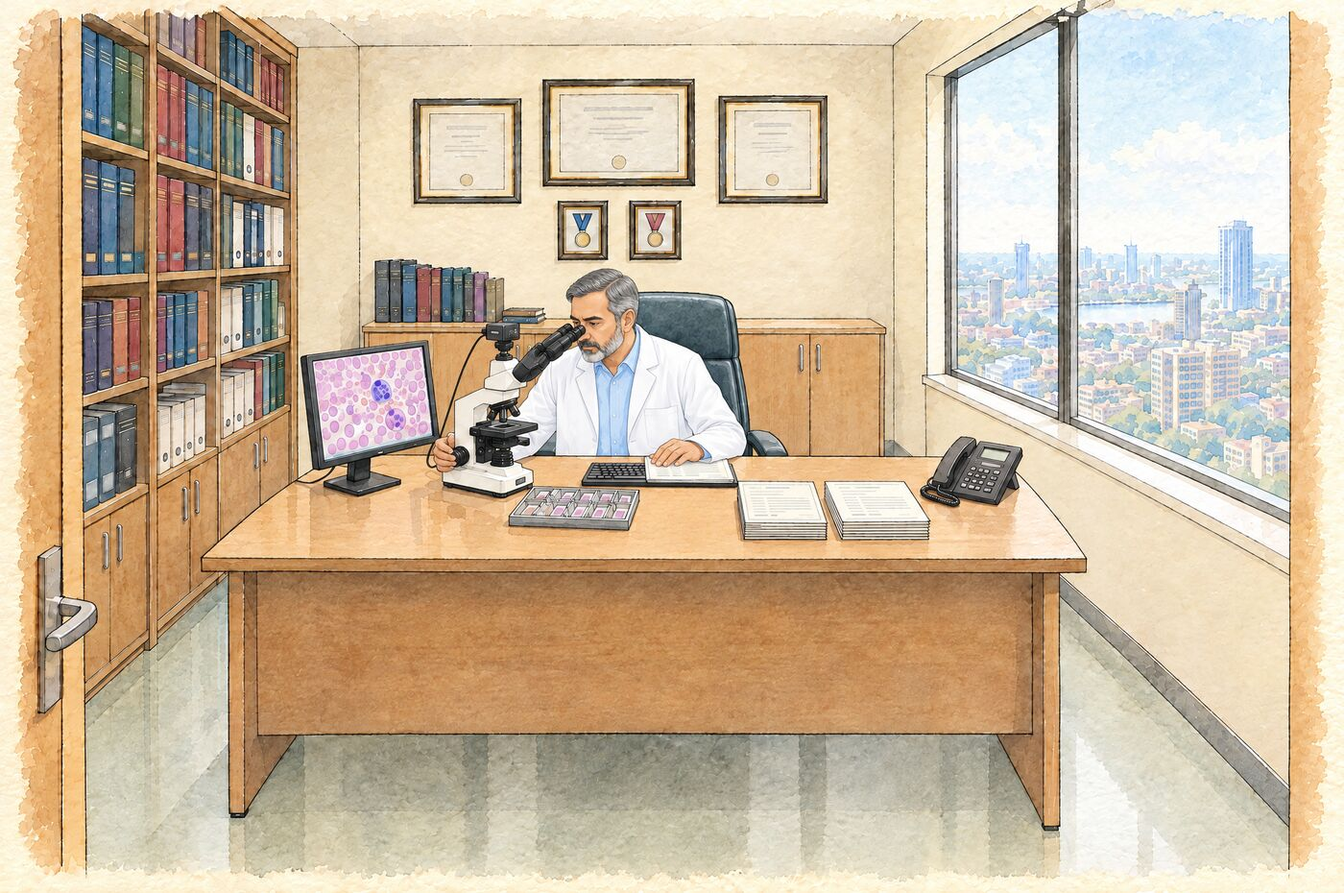
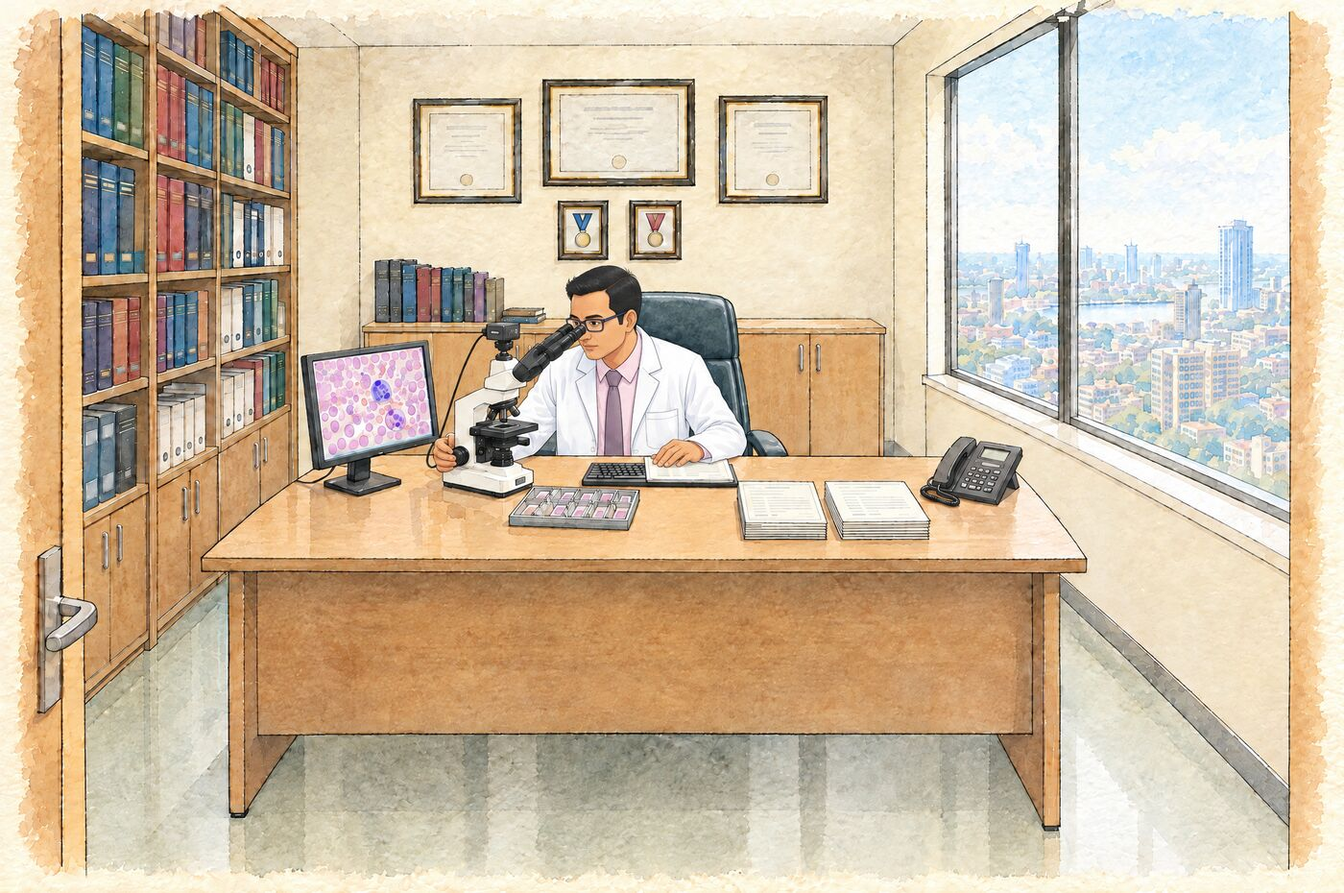
feat: Dr. Prabhat Sharma, split scenes for critical alert and report
Station 18 is now 'Approved by doctor', with Dr. Prabhat Sharma drawn from his
own photo. Station 19 shows the call and the message side by side, with a
code-drawn projection of only the critical value. Station 20 drops the envelope:
the patient's copy is printed at the counter, and the treating doctor gets the
full report as a PDF in a chat-style projection.

diff --git a/sketchbook/sj-split.js b/sketchbook/sj-split.js
@@ -1,0 +1,81 @@
+/* Sample Journey · Sketchbook: the two split scenes, drawn over their comic-strip pictures. Station 19: the call goes across
+   the gutter and a projection of the treating doctor's mobile shows only the critical value. Station 20: the patient's copy
+   is printed at the counter, and the doctor's mobile shows the full report arriving as a PDF. The phone screens are drawn here,
+   not in the pictures, so every word on them is exact. Everything about the patient is made up. */
+
+const SJ_SPLIT = {
+  critical: { callFrom: [280, 262], callTo: [690, 258], mobile: [752, 318], card: [672, 136] },
+  report: { mobile: [730, 318], card: [680, 120] },
+};
+const SJ_NAMEPLATE = { sign: [456, 437], critical: [232, 470] };
+const SJ_HOLO = '#6fe3ff';
+const sjSvgText = (x, y, str, size, col, weight = 700, anchor = 'middle') =>
+  `<text x="${f(x)}" y="${f(y)}" font-size="${size}" fill="${col}" font-weight="${weight}" text-anchor="${anchor}" font-family="${SJ_MONO}">${sjEsc(str)}</text>`;
+
+/* the light that rises from a phone to the card it projects, and the card's glowing frame */
+function sjBeam([mx, my], [cx, cy], w, h, k) {
+  const top = cy + h / 2;
+  return `<path d="M${f(mx - 6)} ${f(my)}L${f(cx - w / 2)} ${f(top)}L${f(cx + w / 2)} ${f(top)}L${f(mx + 6)} ${f(my)}Z" fill="${SJ_HOLO}" opacity="${f(.16 * k)}"/>`
+    + `<rect x="${f(cx - w / 2 - 4)}" y="${f(cy - h / 2 - 4)}" width="${f(w + 8)}" height="${f(h + 8)}" rx="12" fill="none" stroke="${SJ_HOLO}" stroke-width="5" opacity="${f(.35 * k)}"/>`;
+}
+const sjScanLines = (cx, cy, w, h, k, now) => {
+  const drift = matchMedia('(prefers-reduced-motion:reduce)').matches ? 0 : (now * 14) % 8;
+  let s = '';
+  for (let y = cy - h / 2 + drift; y < cy + h / 2; y += 8) s += `<path d="M${f(cx - w / 2 + 3)} ${f(y)}h${f(w - 6)}" stroke="${SJ_HOLO}" stroke-width=".6" opacity="${f(.22 * k)}"/>`;
+  return s;
+};
+
+/* station 19: only the critical value, as the doctor sees it on her mobile */
+function sjCriticalCard(k, now) {
+  const { mobile, card: [cx, cy] } = SJ_SPLIT.critical, w = 186, h = 150, P = SJ.PATIENT, K = SJ.RESULTS.find(r => r.critical);
+  return `<g opacity="${f(k)}">` + sjBeam(mobile, [cx, cy], w, h, k)
+    + `<rect x="${f(cx - w / 2)}" y="${f(cy - h / 2)}" width="${w}" height="${h}" rx="9" fill="#082a35" fill-opacity=".72" stroke="${SJ_HOLO}" stroke-width="1.6"/>`
+    + sjScanLines(cx, cy, w, h, k, now)
+    + `<rect x="${f(cx - w / 2)}" y="${f(cy - h / 2)}" width="${w}" height="24" rx="9" fill="#d6502c" opacity=".92"/>`
+    + sjSvgText(cx, cy - h / 2 + 17, 'CRITICAL ALERT', 13, '#fff', 800)
+    + sjSvgText(cx, cy - 32, 'Shalby Lab', 11.5, SJ_HOLO, 700)
+    + sjSvgText(cx, cy - 14, P.name, 12, '#e8fbff', 700)
+    + sjSvgText(cx, cy + 12, K.name, 13.5, '#e8fbff', 700)
+    + sjSvgText(cx, cy + 36, `${K.value} ${K.unit}`, 19, '#ffb199', 800)
+    + sjSvgText(cx, cy + 62, SJ.PATIENT.authoriser, 10.5, SJ_HOLO, 600) + '</g>';
+}
+
+/* station 20: a chat-app style screen with the full report as a PDF. Not a real app's screen. */
+function sjReportCard(k) {
+  const { mobile, card: [cx, cy] } = SJ_SPLIT.report, w = 190, h = 182, x0 = cx - w / 2, y0 = cy - h / 2;
+  return `<g opacity="${f(k)}">` + sjBeam(mobile, [cx, cy], w, h, k)
+    + `<rect x="${f(x0)}" y="${f(y0)}" width="${w}" height="${h}" rx="10" fill="#ece5dd" stroke="${SJ_HOLO}" stroke-width="1.6"/>`
+    + `<rect x="${f(x0)}" y="${f(y0)}" width="${w}" height="34" rx="10" fill="#1f7a63"/><rect x="${f(x0)}" y="${f(y0 + 24)}" width="${w}" height="10" fill="#1f7a63"/>`
+    + `<circle cx="${f(x0 + 18)}" cy="${f(y0 + 17)}" r="10" fill="#fff"/>` + sjSvgText(x0 + 18, y0 + 21, 'S', 11, '#1f7a63', 800)
+    + sjSvgText(x0 + 34, y0 + 22, 'Shalby Lab Reports', 12, '#fff', 800, 'start')
+    + `<rect x="${f(x0 + 12)}" y="${f(y0 + 48)}" width="${w - 24}" height="96" rx="8" fill="#fff" stroke="#c9c2b8"/>`
+    + `<rect x="${f(x0 + 22)}" y="${f(y0 + 60)}" width="26" height="32" rx="3" fill="#d6402c"/>` + sjSvgText(x0 + 35, y0 + 80, 'PDF', 8.5, '#fff', 800)
+    + sjSvgText(x0 + 56, y0 + 70, 'Mr Demo Patient', 11, '#1d1d1b', 700, 'start')
+    + sjSvgText(x0 + 56, y0 + 86, 'Full Report.pdf', 11, '#1d1d1b', 700, 'start')
+    + sjSvgText(x0 + 22, y0 + 112, 'PDF · 4 pages', 10, '#6b6b66', 600, 'start')
+    + sjSvgText(x0 + w - 22, y0 + 134, `${SJ.TIMES.generated.toLowerCase()} ✓✓`, 10, '#4f8fbf', 700, 'end')
+    + `<circle cx="${f(x0 + w - 14)}" cy="${f(y0 + 164)}" r="11" fill="#25a36f"/>` + sjSvgText(x0 + w - 14, y0 + 168, '1', 11, '#fff', 800)
+    + sjSvgText(x0 + 14, y0 + 168, 'Not a real report', 9.5, '#8a3b1d', 700, 'start') + '</g>';
+}
+
+/* the call: a dashed line from his handset to hers, across the gutter, while the call is on */
+function sjCallLine(k, now) {
+  const { callFrom: [x0, y0], callTo: [x1, y1] } = SJ_SPLIT.critical, off = matchMedia('(prefers-reduced-motion:reduce)').matches ? 0 : -now * 30;
+  return `<path d="M${x0} ${y0}Q${(x0 + x1) / 2} ${Math.min(y0, y1) - 120} ${x1} ${y1}" fill="none" stroke="#d6502c" stroke-width="3" stroke-dasharray="9 8" stroke-dashoffset="${f(off)}" opacity="${f(k)}"/>`;
+}
+const sjDoneChip = (x, y, str, on1) => on1 ? sjPill(x, y, `✓ ${str}`, { size: 12.5, bg: '#e7f4ec', pinned: true }) : '';
+
+function sjDrawSplit(s1, now) {
+  const key = SJ.STATIONS[s1.at].key, started = s1.busy || s1.step > 0 || s1.u > 0;
+  if (s1.hop || !started || !SJ_SPLIT[key]) return '';
+  const u = s1.u, k = sjRamp(u, .4, .55);
+  if (key === 'critical') return sjCallLine(1 - sjRamp(u, .85, 1) * .6, now) + sjDoneChip(150, 518, 'Message sent', u > .4) + sjDoneChip(150, 552, 'Read-back done', u > .7) + sjCriticalCard(k, now);
+  return sjPill(160, 430, 'Printed here, when the patient asks', { size: 12, bg: '#fffdf6', pinned: true }) + sjDoneChip(710, 540, 'Full report sent', u > .4) + sjReportCard(k);
+}
+
+/* his name on the desk, wherever he is in the picture */
+function sjDrawNameplate(s1) {
+  const at = SJ_NAMEPLATE[SJ.STATIONS[s1.at].key];
+  if (!at || s1.hop) return '';
+  return sjPill(at[0], at[1], SJ.PATIENT.authoriser, { size: 12, bg: '#5b3a20', col: '#f3d58a', sw: 1.4, pinned: true });
+}

diff --git a/sketchbook/sj-window.js b/sketchbook/sj-window.js
@@ -88,11 +88,11 @@ const SJ_CLOSE = {
   },
   run: () => { const R = SJ.RESULTS.filter(r => ['Potassium', 'Creatinine', 'Glucose (R)', 'Haemoglobin'].includes(r.name)); return sjT(160, 30, 'RESULTS HELD IN LIS', 14, INK, 800, 'middle') + R.map((r, i) => sjR(24, 44 + i * 40, 274, 32, '#f2f2ee') + sjT(36, 65 + i * 40, r.name, 12.5, INK, 600) + sjT(286, 65 + i * 40, 'held', 12, '#8a3b1d', 800, 'end')).join('') + sjT(160, 224, 'PT/INR: not shown in this example', 10.5, '#5d564a', 600, 'middle') + sjT(160, 242, 'Blood culture: incubating', 12, '#5d564a', 700, 'middle'); },
   check: () => sjT(160, 28, 'TECHNICAL CHECK', 14, INK, 800, 'middle') + sjR(24, 42, 274, 86, '#fbe9c8') + sjT(36, 68, 'Potassium', 13, INK, 700) + sjT(286, 68, '6.91 mmol/L', 14, '#a12c1e', 800, 'end') + sjT(36, 92, 'Range', 12) + sjT(286, 92, '3.5 - 5.1', 12, INK, 600, 'end') + sjT(36, 116, 'Previous', 12) + sjT(286, 116, 'compare when on file', 11, INK, 600, 'end') + ['Analyser flags seen', 'Haemolysis looked for', 'Do not delay a true critical call'].map((t, i) => sjT(52, 156 + i * 28, t, i === 2 ? 11.5 : 13, i === 2 ? '#8a3b1d' : INK, 700) + sjTick(28, 152 + i * 28)).join(''),
-  sign: () => sjT(160, 26, 'AUTHORISED REPORT', 14, INK, 800, 'middle') + SJ.RESULTS.slice(0, 5).map((r, i) => sjT(26, 52 + i * 22, r.name, 12.5, INK, r.critical ? 800 : 500) + sjT(214, 52 + i * 22, r.value, 13, r.critical ? '#a12c1e' : INK, 800, 'end') + sjT(296, 52 + i * 22, r.range, 10, '#5d564a', 500, 'end')).join('') + sjR(22, 170, 280, 76, '#eef6f3') + sjT(36, 194, `Approved On ${SJ.TIMES.approvedRenal}`, 13, INK, 700) + sjT(36, 216, SJ.PATIENT.authoriser, 13, '#2f5d62', 800) + sjT(36, 234, 'MD Pathology', 11, '#5d564a', 600),
-  critical: () => sjT(160, 24, 'PHONE, NOW. NOT A MESSAGE', 12.5, '#a12c1e', 800, 'middle') + sjR(14, 34, 278, 62, '#fff', 8) + sjT(24, 54, 'Lab:', 11.5, INK, 800) + sjT(58, 54, 'Mr Demo Patient, PID', 11.5) + sjT(58, 70, 'SHLDEMO00001. Potassium', 11.5) + sjT(58, 86, '6.91 mmol/L. Critical.', 11.5, '#a12c1e', 800)
-    + sjR(32, 102, 278, 46, '#e7f4ec', 8) + sjT(42, 122, 'Doctor:', 11.5, INK, 800) + sjT(96, 122, 'Reading back: Demo', 11.5) + sjT(96, 138, 'Patient, potassium 6.91.', 11.5) + sjT(14, 170, 'LOG', 12.5, INK, 800) + ['Date and time, who called', 'Who was told, result given', 'Read-back done, any difficulty'].map((t, i) => sjT(38, 190 + i * 20, t, 12, INK, 600) + sjTick(16, 187 + i * 20)).join('') + sjT(160, 258, "Critical limit: per the lab's documented policy", 9, '#5d564a', 700, 'middle'),
-  report: () => sjR(10, 12, 148, 186, '#e7f4ec', 12) + sjT(84, 34, 'WhatsApp', 12.5, INK, 800, 'middle') + ['Report is ready.', 'Open secure link', 'with OTP.'].map((t, i) => sjT(20, 60 + i * 20, t, 11.5)).join('') + ['Opt-in recorded', 'Number confirmed'].map((t, i) => sjT(20, 140 + i * 22, t, 10.5, '#2f5d62', 700)).join('')
-    + sjR(170, 12, 144, 186, '#fff8e6', 12) + sjT(242, 34, 'Hard copy', 12.5, INK, 800, 'middle') + ['Counter checks', 'identity first', 'then hands over,', 'logged'].map((t, i) => sjT(180, 60 + i * 20, t, 11.5)).join('') + sjT(160, 222, `Generated On ${SJ.TIMES.generated}`, 13, INK, 700, 'middle') + sjT(160, 244, 'Critical result: already phoned', 11.5, '#a12c1e', 800, 'middle'),
+  sign: () => sjT(160, 26, 'AUTHORISED REPORT', 14, INK, 800, 'middle') + SJ.RESULTS.slice(0, 5).map((r, i) => sjT(26, 52 + i * 22, r.name, 12.5, INK, r.critical ? 800 : 500) + sjT(214, 52 + i * 22, r.value, 13, r.critical ? '#a12c1e' : INK, 800, 'end') + sjT(296, 52 + i * 22, r.range, 10, '#5d564a', 500, 'end')).join('') + sjR(22, 170, 280, 76, '#eef6f3') + sjT(36, 194, `Approved On ${SJ.TIMES.approvedRenal}`, 13, INK, 700) + sjT(36, 216, SJ.PATIENT.authoriser, 13, '#2f5d62', 800),
+  critical: () => sjT(160, 24, 'PHONE CALL, THEN A MESSAGE', 12.5, '#a12c1e', 800, 'middle') + sjR(14, 34, 278, 62, '#fff', 8) + sjT(24, 52, `${SJ.PATIENT.authoriser}:`, 11.5, INK, 800) + sjT(24, 69, 'Mr Demo Patient, SHLDEMO00001.', 11.5) + sjT(24, 86, 'Potassium 6.91 mmol/L. Critical.', 11.5, '#a12c1e', 800)
+    + sjR(32, 102, 278, 46, '#e7f4ec', 8) + sjT(42, 122, 'Doctor:', 11.5, INK, 800) + sjT(96, 122, 'Reading back: Demo', 11.5) + sjT(96, 138, 'Patient, potassium 6.91.', 11.5) + sjT(14, 170, 'LOG', 12.5, INK, 800) + ['Call: time, who told, read-back', 'Message: sent, value only', 'Any difficulty, escalation'].map((t, i) => sjT(38, 190 + i * 20, t, 12, INK, 600) + sjTick(16, 187 + i * 20)).join('') + sjT(160, 258, "Critical limit: per the lab's documented policy", 9, '#5d564a', 700, 'middle'),
+  report: () => sjR(10, 12, 148, 186, '#e7f4ec', 12) + sjT(84, 34, 'WhatsApp', 12.5, INK, 800, 'middle') + ['Full report PDF', 'to the treating', 'doctor.'].map((t, i) => sjT(20, 60 + i * 20, t, 11.5)).join('') + ['Opt-in recorded', 'Number confirmed'].map((t, i) => sjT(20, 140 + i * 22, t, 10.5, '#2f5d62', 700)).join('')
+    + sjR(170, 12, 144, 186, '#fff8e6', 12) + sjT(242, 34, 'Hard copy', 12.5, INK, 800, 'middle') + ['Printed at the', 'counter when the', 'patient asks,', 'after an ID check'].map((t, i) => sjT(180, 60 + i * 20, t, 11.5)).join('') + sjT(160, 222, `Generated On ${SJ.TIMES.generated}`, 13, INK, 700, 'middle') + sjT(160, 244, 'Critical result: already phoned', 11.5, '#a12c1e', 800, 'middle'),
   store: () => sjT(160, 28, 'KEEP IT FINDABLE', 14, INK, 800, 'middle') + sjR(34, 42, 256, 96, '#eef3f6') + [0, 1, 2, 3, 4, 5, 6, 7].map(i => sjTube(50 + i * 29, 54, i === 2 ? SJ_CAPS.serum : '#c7cdd1', 50, i === 2 ? 1 : .4)).join('') + sjT(36, 164, 'Biochemistry: min 1 day, 2-8 °C', 11.5, INK, 700) + sjT(36, 186, 'CBC: up to 24 h, 2-8 °C', 11.5, INK, 700) + sjT(36, 208, 'Coagulation: up to 4 h, room temp', 10.5, INK, 700) + sjT(36, 236, 'Source: NABL 112A', 10.5, '#5d564a', 600),
   discard: () => `<path d="M112 80h100l-10 150h-80z" fill="#c8ced1" stroke="#231e16" stroke-width="1.6"/>` + sjR(102, 66, 120, 16, '#9aa2a6', 3) + sjT(160, 150, 'BMW', 22, '#fff', 800, 'middle') + sjT(160, 36, 'AS PER BMW RULES', 14, INK, 800, 'middle') + sjT(160, 252, 'Bin colours: unverified, see Sources', 10.5, '#8a3b1d', 700, 'middle'),
 };

diff --git a/sketchbook/sj-overlay.js b/sketchbook/sj-overlay.js
@@ -14,8 +14,9 @@ const sjInView = (x, y, halfW, halfH) => {
   const pad = 4 * INK_K;
   return [Math.max(sjVB.x + halfW + pad, Math.min(sjVB.x + sjVB.w - halfW - pad, x)), Math.max(sjVB.y + halfH + pad, Math.min(sjVB.y + sjVB.h - halfH - pad, y))];
 };
-const sjPill = (x0, y0, str, { size = 13, bg = '#fff4d6', col = INK, sw = 1.3, weight = 800 } = {}) => {
-  const w = String(str).length * size * .62 + size * 1.2, h = size * 1.9, [x, y] = sjInView(x0, y0, w / 2, h / 2);
+/* pinned = stays on its own spot in the picture, for labels that belong to one panel of a split scene */
+const sjPill = (x0, y0, str, { size = 13, bg = '#fff4d6', col = INK, sw = 1.3, weight = 800, pinned = false } = {}) => {
+  const w = String(str).length * size * .62 + size * 1.2, h = size * 1.9, [x, y] = pinned ? [x0, y0] : sjInView(x0, y0, w / 2, h / 2);
   return `<rect x="${f(x - w / 2)}" y="${f(y - h / 2)}" width="${f(w)}" height="${f(h)}" rx="${f(h * .22)}" fill="${bg}" stroke="${INK}" stroke-width="${sw}"/>`
     + `<text x="${f(x)}" y="${f(y + size * .35)}" font-size="${size}" text-anchor="middle" fill="${col}" font-weight="${weight}" font-family="${SJ_MONO}">${sjEsc(str)}</text>`;
 };
@@ -27,8 +28,6 @@ function sjTag(s0, state) {
   return act('station', sjPill(x, y, `${s0.num} ${s0.label}`, { bg, col: done ? '#7b7466' : INK, sw: on1 ? 2 : 1.2 }), `data-i="${s0.num - 1}" style="cursor:pointer"`);
 }
 
-const sjFormArt = (x, y) => `<rect x="${f(x - 11)}" y="${f(y - 14)}" width="22" height="28" rx="1.5" fill="#fffdf6" stroke="${INK}" stroke-width="1.2"/>`
-  + [-7, -2, 3, 8].map(d => `<path d="M${f(x - 7)} ${f(y + d)}h14" stroke="#7d756a" stroke-width="1"/>`).join('');
 
 function sjDrawRing(s1, now) {
   if (!(s1.busy || s1.step > 0 || s1.u > 0) || s1.hop) return '';
@@ -38,18 +37,12 @@ function sjDrawRing(s1, now) {
   return `<ellipse cx="${f(S0.spot[0])}" cy="${f(S0.spot[1])}" rx="${f(r)}" ry="${f(r * .72)}" fill="none" stroke="#d6502c" stroke-width="2.4"/>`;
 }
 
-/* the building: which floor is which, and the report on its way down. The curve is the report's path, not a lift. */
+/* the building: which floor is which, and no more */
 const sjPins = () => SJ_PINS.map(p => {
   const [x, y] = p.at, w = p.text.length * 7.4 + 16;
   return `<circle cx="${x}" cy="${y}" r="5" fill="#fff" stroke="${INK}" stroke-width="1.6"/><path d="M${x} ${y}H${x - 22}" stroke="${INK}" stroke-width="1.2"/>` + sjPill(x - 22 - w / 2, y, p.text, { size: 11.5, bg: '#fffdf6' });
 }).join('');
-function sjDrawBuilding(s1, now) {
-  if (!s1.hop || s1.hop.kind !== 'report') return sjPins();
-  const [a, b] = [SJ_PINS[0].at, SJ_PINS[1].at], u = ease(s1.hop.u), bow = [660, (a[1] + b[1]) / 2];
-  const at = t => [0, 1].map(i => (1 - t) * (1 - t) * a[i] + 2 * t * (1 - t) * bow[i] + t * t * b[i]), [x, y] = at(u);
-  const off = matchMedia('(prefers-reduced-motion:reduce)').matches ? 0 : -now * 26;
-  return sjPins() + `<path d="M${a[0]} ${a[1]}Q${bow[0]} ${bow[1]} ${b[0]} ${b[1]}" fill="none" stroke="#3f8f6a" stroke-width="3" stroke-dasharray="8 7" stroke-dashoffset="${f(off)}"/>` + sjFormArt(x, y);
-}
+const sjDrawBuilding = () => sjPins();
 
 function sjScene(s1, now) {
   const place = sjPlaceNow(s1);
@@ -64,8 +57,10 @@ function sjScene(s1, now) {
     return { svg: show + (caption ? sjPill(x0, y0, caption, { size: 14 * Math.max(1, (sjVB ? sjVB.w : 950) / 760), bg: '#fffdf6' }) : '') };
   }
   // a phone shows only the active label: the rail below holds the others, and a small view would crowd them
-  const shown = SJ.STATIONS.filter(s0 => sjSpotOf(s0.key).place === place && (!sjIsPhone() || sjStateOf(s0.num - 1, s1) === 'on'));
+  // a phone, or a split scene (its picture is not the room the other labels were placed on), shows only the active label
+  const solo = sjIsPhone() || !!sjSpotOf(SJ.STATIONS[s1.at].key).split;
+  const shown = SJ.STATIONS.filter(s0 => sjSpotOf(s0.key).place === place && (!solo || sjStateOf(s0.num - 1, s1) === 'on'));
   const tags = shown.map(s0 => sjTag(s0, sjStateOf(s0.num - 1, s1))).join('');
   const signs = place === 'departments' ? SJ_SIGNS.map(g => sjPill(g.at[0], g.at[1], g.text, { size: 11, bg: '#fffdf6' })).join('') : '';
-  return { svg: signs + tags + sjDrawRing(s1, now) };
+  return { svg: signs + sjDrawNameplate(s1) + sjDrawSplit(s1, now) + tags + sjDrawRing(s1, now) };
 }

diff --git a/shared/sj-spec.js b/shared/sj-spec.js
@@ -22,7 +22,7 @@ const SJ = (() => {
 
   const PATIENT = {
     name: 'Mr Demo Patient', pid: 'SHLDEMO00001', labId: 'DEMO00001', dob: '15-Mar-1952', age: '74 Years', gender: 'Male',
-    location: 'OPD', date: '12-Oct-2026', refBy: 'Dr. Shalin Thakore', authoriser: 'Dr. Misha Antani',
+    location: 'OPD', date: '12-Oct-2026', refBy: 'Dr. Shalin Thakore', authoriser: 'Dr. Prabhat Sharma',
     watermark: 'TEACHING SAMPLE: NOT A REAL REPORT',
   };
 
@@ -137,20 +137,20 @@ const SJ = (() => {
       src: 'ISO 7.4.1.2; 7.4.1.7 d 1, d 4. NABL 112A §7.3.1b p.40. NABL 112B §5 p.26.',
       note: `Compare with the previous result (delta). Delta limits: ${POLICY}. Potassium is very high, so look for haemolysis, but do not delay a true critical call.`,
       done: 'Checked: the sample is sound and the result stands.' },
-    { key: 'sign', label: 'SIGN', name: 'Authorisation by a competent person', zone: 'lab', who: 'Pathologist or authorised person',
+    { key: 'sign', label: 'SIGN', name: 'Approved by doctor', zone: 'lab', who: 'Dr. Prabhat Sharma',
       records: 'Approved On, name of authoriser', risk: 'Unauthorised release. After hours: preliminary result, reviewed next working day.',
       src: 'ISO 7.4.1.2; 6.2.3 b; 7.4.1.5; 7.4.1.6 j. NABL 112A p.12, §6j i p.33, §6j iii, iv p.34. NABH AAC.6.d (p.60).',
-      note: 'A competent, authorised person reviews the results against QC, clinical details and previous results, then releases them.',
+      note: 'Dr. Prabhat Sharma reviews the results against QC, clinical details, previous results and the slide, then approves and releases them. Only a competent, authorised person may do this.',
       done: 'Authorised. Approved On: 03:49 PM.' },
-    { key: 'critical', label: 'CRITICAL', name: 'Critical alert: phone call with read-back', zone: 'lab', who: 'Lab staff to doctor',
+    { key: 'critical', label: 'CRITICAL', name: 'Critical alert: phone call and message', zone: 'lab', who: 'Dr. Prabhat Sharma to the treating doctor',
       records: 'Date, time, who called, who was told, result given, read-back done, any difficulty', risk: 'Doctor unreachable: escalate. Message sent with no check that it was understood.',
       src: 'ISO 7.4.1.3 a-c; 7.4.1.4 c; 7.4.1.6 l. NABL 112A §6j ii p.33. NABH AAC.6.g (p.60), AAC.9.h (p.63).',
-      note: `Potassium 6.91 mmol/L is above this lab's critical limit (limit ${POLICY}). Phone the doctor now. The doctor repeats the value back. Log the call.`,
-      done: 'Doctor told, read-back done, call logged.' },
-    { key: 'report', label: 'REPORT', name: 'Routine report and notice', zone: 'counter', who: 'LIS and report counter',
+      note: `Potassium 6.91 mmol/L is above this lab's critical limit (limit ${POLICY}). Dr. Prabhat Sharma phones the treating doctor now, and a message with only the critical value follows. The doctor repeats the value back on the call. Log the call and the message.`,
+      done: 'Doctor told by phone and message, read-back done, both logged.' },
+    { key: 'report', label: 'REPORT', name: 'Report to doctor and patient', zone: 'counter', who: 'LIS and report counter',
       records: 'Generated On, delivery log, who collected a hard copy', risk: 'Wrong number. Sensitive result sent with no counselling. Delay not told to the user.',
       src: 'ISO 7.4.1.1; 7.4.1.6; 7.4.1.4 d; 4.2; 7.6.3 c. NABL 112A §6k p.35-36. NABH AAC.6.f, h (p.60), PRE.2.d (p.103), IMS.5.a (p.170).',
-      note: 'A separate path: the report reaches the patient by WhatsApp notice with safeguards, or as a hard copy from the counter after an identity check.',
+      note: 'The full report goes to the treating doctor on WhatsApp, with safeguards. The patient collects a hard copy at the counter: it is printed there when the patient asks, after an identity check, not printed in the lab.',
       done: 'Report delivered and logged. Generated On: 04:11 PM.' },
     { key: 'store', label: 'STORE', name: 'Store and find again', zone: 'lab', who: 'Lab technician',
       records: 'Rack and position, discard date', risk: 'Sample cannot be found for an added test.',

diff --git a/sketchbook/sj-places.js b/sketchbook/sj-places.js
@@ -23,9 +23,9 @@ const SJ_SPOTS = {
   qc: { place: 'analyser', spot: [338, 208], tag: [640, 420], cam: 760 },
   run: { place: 'analyser', spot: [202, 308], tag: [180, 470], cam: 700 },
   check: { place: 'analyser', spot: [902, 272], tag: [885, 130], cam: 700 },
-  sign: { place: 'cabin', spot: [362, 280], tag: [620, 240], cam: 860 },
-  critical: { place: 'cabin', spot: [470, 285], tag: [690, 470], cam: 860 },
-  report: { place: 'counter', spot: [475, 304], tag: [500, 420], cam: 800 },
+  sign: { place: 'cabin', spot: [368, 258], tag: [620, 240], cam: 860 },
+  critical: { place: 'cabin', spot: [230, 345], tag: [400, 600], cam: 950, split: [[240, 270], [710, 270]] },
+  report: { place: 'counter', spot: [225, 270], tag: [250, 600], cam: 950, split: [[240, 270], [710, 270]] },
   store: { place: 'storage', spot: [205, 250], tag: [400, 420], cam: 800 },
   discard: { place: 'storage', spot: [710, 290], tag: [480, 520], cam: 800 },
 };
@@ -48,11 +48,12 @@ const SJ_PINS = [
 const SJ_HOPS = {
   order: { kind: 'enter', dur: 2.6, title: 'Arriving at the hospital', text: 'Mr Demo Patient comes in through the main entrance. The OPD and registration are on the ground floor.', caption: 'To the OPD, ground floor' },
   ready: { kind: 'patient', dur: 6, title: 'The patient goes down in the lift', text: 'After registration, the patient takes the lift from the ground floor down to the sample collection room in the basement.', caption: 'Patient: ground floor to basement' },
-  report: { kind: 'report', dur: 3.2, title: 'The report leaves the lab', text: 'The authorised report is released. The hard copy is collected at the report counter on the ground floor. The sample itself stays in the lab.', caption: 'Report: 9th floor to ground floor' },
 };
 
 const sjSpotOf = key => SJ_SPOTS[key];
-const sjClampFrame = (cx, cy, wish, aspect) => {
+/* fit = show the whole width even if the frame is taller than the picture: a split scene must never lose a panel */
+const sjClampFrame = (cx, cy, wish, aspect, fit = false) => {
+  if (fit) { const w = SJ_PLATE.w, h = Math.max(SJ_PLATE.h, w / aspect), ww = h * aspect; return { x: SJ_PLATE.w / 2 - ww / 2, y: SJ_PLATE.h / 2 - h / 2, w: ww, h }; }
   const w = Math.min(wish, SJ_PLATE.w, SJ_PLATE.h * aspect), h = w / aspect;
   const clamp = (v, half, max) => Math.max(half, Math.min(max - half, v));
   return { x: clamp(cx, w / 2, SJ_PLATE.w) - w / 2, y: clamp(cy, h / 2, SJ_PLATE.h) - h / 2, w, h };
@@ -79,5 +80,6 @@ function sjCamWish(s1, phone) {
     return { c: [whole.c[0] + (dx - whole.c[0]) * t, whole.c[1] + (dy - whole.c[1]) * t], w: whole.w + (300 - whole.w) * t };
   }
   const key = SJ.STATIONS[s1.at].key, S0 = sjSpotOf(key);
+  if (S0.split) return phone ? { c: S0.split[s1.u < .5 ? 0 : 1], w: 470 } : { ...whole, fit: true };
   return { c: S0.spot, w: phone ? Math.min(S0.cam, 460) : S0.cam };
 }

diff --git a/sketchbook/sj-ui.js b/sketchbook/sj-ui.js
@@ -255,7 +255,7 @@ function sjCam() {
   const svg = document.getElementById('fig');
   if (!svg) return;
   const r = svg.getBoundingClientRect(), aspect = r.width && r.height ? r.width / r.height : 4 / 3;
-  const wish = sjCamWish(st, sjIsPhone()), target = sjClampFrame(wish.c[0], wish.c[1], wish.w, aspect);
+  const wish = sjCamWish(st, sjIsPhone()), target = sjClampFrame(wish.c[0], wish.c[1], wish.w, aspect, wish.fit);
   const still = matchMedia('(prefers-reduced-motion:reduce)').matches;
   if (!sjVB) sjVB = { ...target };
   const a = still ? 1 : .09, next = {};

diff --git a/sketchbook/index.html b/sketchbook/index.html
@@ -18,6 +18,7 @@
 <script src="sj-window.js"></script>
 <script src="sj-overlay.js"></script>
 <script src="sj-lift.js"></script>
+<script src="sj-split.js"></script>
 <script src="sj-app.js"></script>
 <script src="sj-ui.js"></script>
 </body>

diff --git a/tools/split-scenes.py b/tools/split-scenes.py
@@ -1,0 +1,19 @@
+# Two scenes side by side, like a comic strip: each panel a crop of its own scene, a white gutter, an ink border.
+import sys
+from PIL import Image, ImageDraw
+K = 1400 / 950                      # pixels per plate unit
+PANELS = [(8, 8, 471, 623), (479, 8, 942, 623)]
+def crop(src, cx0, cy0, w):
+    im = Image.open(src).convert('RGB'); s = im.width / 950
+    h = w * (PANELS[0][3] - PANELS[0][1]) / (PANELS[0][2] - PANELS[0][0])
+    return im.crop((int(cx0 * s), int(cy0 * s), int((cx0 + w) * s), int((cy0 + h) * s)))
+def split(out, left, right):
+    page = Image.new('RGB', (1400, round(631 * K)), '#fbf8ef'); d = ImageDraw.Draw(page)
+    for (x0, y0, x1, y1), (src, cx, cy, w) in zip(PANELS, (left, right)):
+        box = [round(v * K) for v in (x0, y0, x1, y1)]
+        page.paste(crop(src, cx, cy, w).resize((box[2] - box[0], box[3] - box[1]), Image.LANCZOS), box[:2])
+        d.rectangle(box, outline='#231e16', width=5)
+    page.save(out, quality=82)
+G = 'assets/generated/scenes/'
+split('sketchbook/scenes/critical.jpg', (G + 'critical-left.png', 290, 18, 380), (G + 'clinician-call.png', 243, 40, 330))
+split('sketchbook/scenes/report.jpg', (G + 'report.png', 300, 80, 400), (G + 'clinician-mobile.png', 243, 40, 330))

diff --git a/docs/spec.md b/docs/spec.md
@@ -186,14 +186,14 @@ Microbiology and coagulation appear in the same step. Coagulation shows a QC and
 | # | Label | Full name | Who | What the software records | What can go wrong | Source |
 |---|---|---|---|---|---|---|
 | 17 | CHECK | Technical check, including delta | Lab technician | Flags, comments, previous result beside the new one | Result does not fit: repeat, check for haemolysis or clot before accepting. **High potassium: look for haemolysis, but do not delay a true critical call.** Delta limits: per the lab's documented policy. CBC: check for clots when platelets are low; test within 8 hours, never past 24 hours (unless a stability study supports up to 48) | ISO 7.4.1.2; 7.4.1.7 d 1, d 4. 112A §7.3.1b p.40. 112B §5 p.26 (flowchart: delta check within limit before automated reporting; if not, do not auto-release, consult authorised personnel). ISO's "previous examination results" carries the same idea |
-| 18 | SIGN | Authorisation by a competent person | Pathologist or authorised person | **Approved On**, name of authoriser | Unauthorised release. After hours: trained staff issue a preliminary result, authoriser reviews next working day and issues final. Auto-verified reports must be marked "Auto verified" and can be suspended quickly | ISO 7.4.1.2; 6.2.3 b; 7.4.1.5; 7.4.1.6 j. 112A p.12, §6j i p.33, §6j iii, iv p.34. NABH AAC.6.d (p.60) |
+| 18 | SIGN | Approved by doctor | Dr. Prabhat Sharma | **Approved On**, name of authoriser | Unauthorised release. After hours: trained staff issue a preliminary result, authoriser reviews next working day and issues final. Auto-verified reports must be marked "Auto verified" and can be suspended quickly | ISO 7.4.1.2; 6.2.3 b; 7.4.1.5; 7.4.1.6 j. 112A p.12, §6j i p.33, §6j iii, iv p.34. NABH AAC.6.d (p.60) |
 
 ### Step 8. TELL (two different paths)
 
 | # | Label | Full name | Who | What the software records | What can go wrong | Source |
 |---|---|---|---|---|---|---|
-| 19 | CRITICAL | Critical alert: phone call with read-back | Lab staff to doctor | **Date, time, who called, who was told, result given, read-back done, any difficulty** | Doctor unreachable: **escalation** to the next person, per the lab's procedure. Critical list not displayed. Message sent with no check that it was understood. Patient has already gone home: doctor decides how to reach them | ISO 7.4.1.3 a–c; 7.4.1.4 c; 7.4.1.6 l. 112A §6j ii p.33. NABH AAC.6.g (p.60), AAC.9.h (p.63, Excellence: checks that care followed the alert). "Read-back" = ISO's "verification of accuracy of communication" |
-| 20 | REPORT | Routine report and notice | LIS and report counter | **Generated On**, delivery log, who collected a hard copy | Sent to the wrong number. Sensitive result sent with no counselling. Delay not told to the user. Report missing a required item | See below |
+| 19 | CRITICAL | Critical alert: phone call and message | Dr. Prabhat Sharma to the treating doctor | **Date, time, who called, who was told, result given, read-back done, any difficulty** | Doctor unreachable: **escalation** to the next person, per the lab's procedure. Critical list not displayed. Message sent with no check that it was understood. Patient has already gone home: doctor decides how to reach them | ISO 7.4.1.3 a–c; 7.4.1.4 c; 7.4.1.6 l. 112A §6j ii p.33. NABH AAC.6.g (p.60), AAC.9.h (p.63, Excellence: checks that care followed the alert). "Read-back" = ISO's "verification of accuracy of communication" |
+| 20 | REPORT | Report to doctor and patient | LIS and report counter | **Generated On**, delivery log, who collected a hard copy | Sent to the wrong number. Sensitive result sent with no counselling. Delay not told to the user. Report missing a required item | See below |
 
 **Why two paths:** a critical result needs a person to hear it, repeat it and act now. A routine report needs only to reach the right person safely. A WhatsApp message must never be the only critical alert: no read-back is possible in the required way (my reading of ISO 7.4.1.3 b).
 
@@ -328,7 +328,7 @@ Illustrated people, as the skill requires. Cast sheet goes to you first. Indian 
 | Phlebotomist | 3–9 | Asking name, reading wristband or request; gloved draw with evacuated holder; labelling beside the patient; dropping sharps in bin | 112A p.27 |
 | Sample carrier | 10 | Carrying rigid box in the lift, upright | 112A p.28 |
 | Lab technician | 11–17, 21–22 | Scanning; centrifuge with lid closed; reading LJ chart; phone call | 112A p.31 |
-| Pathologist | 18 | Reviewing and signing on screen | ISO 7.4.1.2 |
+| Dr. Prabhat Sharma | 18, 19 | At the microscope; on the phone with a form | ISO 7.4.1.2 |
 
 **Image source:** Higgsfield unless you say otherwise. About 3 credits per image by the skill's 2026 note; roughly 15–20 images, about 60 credits of your 7,200. I will confirm the current price before generating.
 
@@ -427,4 +427,10 @@ The lift ride is made from still images and code: the closed-door picture slides
 ## 14. Moving through the stations
 
 The player works like an old cassette player: First, Previous, Play, Pause, Stop, Next, Last. Durations do not change. Previous and Next move one station at a time, because each station has its own text. They hold on that station until Play is pressed, and Play carries on from the next station. The sample never animates backwards: the picture simply changes. Stepping does not replay the journeys between floors.
+
+## 15. Changes after the in-charge's review (3 Nov 2026)
+
+- **Station 18** is now "Approved by doctor". The pathologist is drawn from a photo of Dr. Prabhat Sharma, who leads this training, and his name is shown as the authoriser. No designation is shown.
+- **Station 19**: critical alerts at Shalby go by phone call and by message. The page shows both, in a split scene: Dr. Prabhat Sharma calls on the left, and the treating doctor answers on the landline on the right while a projection of her mobile shows only the critical value. The call with read-back stays the required part; the message never replaces it (ISO 7.4.1.3). Message practice: per Shalby, as told by Dr. Tiwari.
+- **Station 20**: no envelope travels from the lab. The patient's copy is printed at the counter when the patient asks. The treating doctor gets the full report as a PDF on WhatsApp, from "Shalby Lab Reports" (projection drawn in code, not a real app screen).
 
